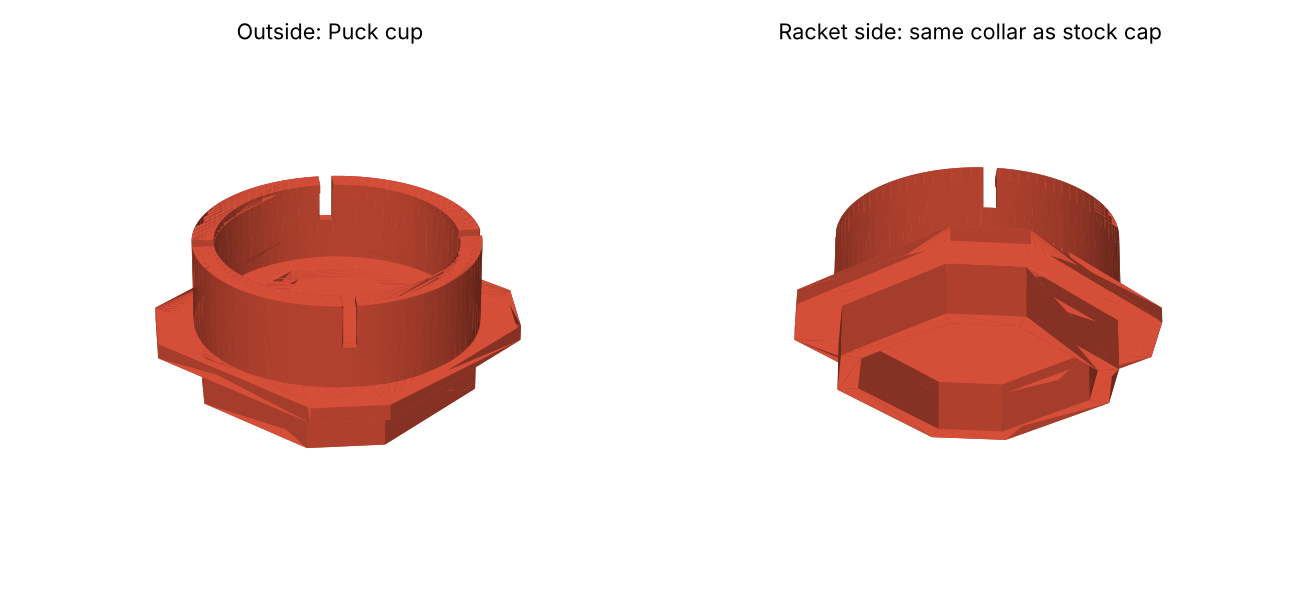
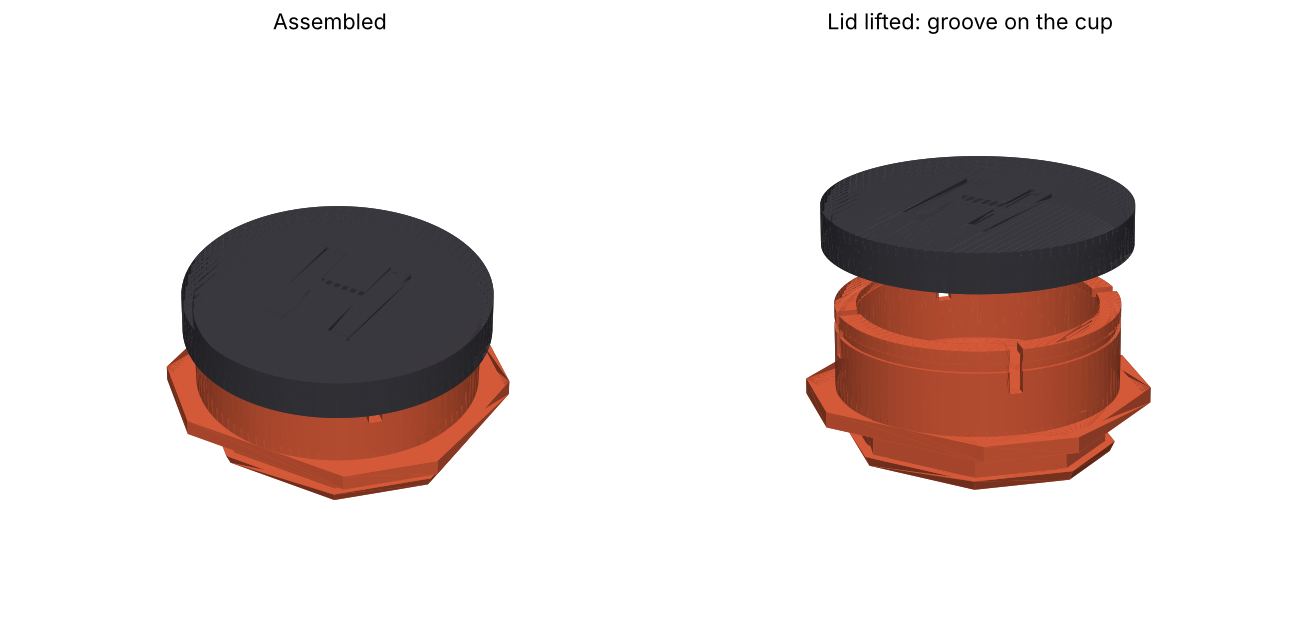
Butt cap: snap-on lid with engraved H; groove on the cup
Claude-Session: https://claude.ai/code/session_01U1vYNWBqomUQwRWxjbKs2f

diff --git a/hardware/buttcap/buttcap.py b/hardware/buttcap/buttcap.py
@@ -69,6 +69,19 @@ class ButtCapParams:
     finger_slot_width: float = 1.5
     finger_slot_depth: float = 5.0
 
+    # Snap lid: a sleeve over the cup whose bead clicks into a groove on the cup.
+    groove_depth: float = 0.4
+    groove_height: float = 1.0
+    groove_from_top: float = 1.5  # top of the groove below the cup rim
+    lid_clearance: float = 0.15
+    lid_wall: float = 1.2
+    lid_top: float = 1.6
+    lid_sleeve: float = 3.0
+    bead: float = 0.35
+    letter: str = "H"
+    letter_height: float = 14.0
+    letter_depth: float = 0.6
+
     def cup_outer_diameter(self) -> float:
         return self.pcb_diameter + 2 * (self.radial_clearance + self.cup_wall)
 
@@ -124,6 +137,10 @@ def build_racket_side(p: ButtCapParams) -> Manifold:
     return flange + collar
 
 
+def cup_top(p: ButtCapParams) -> float:
+    return p.flange_thickness + p.pcb_stack_height - p.stack_interference + p.lip_height
+
+
 def build(p: ButtCapParams) -> Manifold:
     cap = build_racket_side(p)
     inner_r = p.pcb_diameter / 2 + p.radial_clearance
@@ -143,7 +160,53 @@ def build(p: ButtCapParams) -> Manifold:
             .rotate([0, 0, angle])
         )
         cup = cup - slot
+    # Groove for the lid's bead.
+    groove_top = cup_top(p) - p.groove_from_top
+    groove = _cylinder(p.groove_height, outer_r + 1) - _cylinder(p.groove_height + 0.02, outer_r - p.groove_depth).translate(
+        [0, 0, -0.01]
+    )
+    cup = cup - groove.translate([0, 0, groove_top - p.groove_height])
     return cap + cup
+
+
+def _letter_h(height: float) -> CrossSection:
+    """A block capital H centred on the origin."""
+    width = height * 0.78
+    stroke = height * 0.19
+
+    def rect(x0: float, y0: float, x1: float, y1: float) -> CrossSection:
+        return CrossSection([[(x0, y0), (x1, y0), (x1, y1), (x0, y1)]])
+
+    w, h = width / 2, height / 2
+    return (
+        rect(-w, -h, -w + stroke, h)
+        + rect(w - stroke, -h, w, h)
+        + rect(-w + stroke - 0.01, -stroke / 2, w - stroke + 0.01, stroke / 2)
+    )
+
+
+def build_lid(p: ButtCapParams) -> Manifold:
+    """Snap-on lid with an engraved letter, in assembly coordinates (seated on the cup)."""
+    if p.letter not in ("H", ""):
+        raise ValueError("Only the letter H is implemented")
+    cup_r = p.cup_outer_diameter() / 2
+    r_in = cup_r + p.lid_clearance
+    r_out = r_in + p.lid_wall
+    top = cup_top(p)
+    lid = _cylinder(p.lid_sleeve + p.lid_top, r_out).translate([0, 0, top - p.lid_sleeve])
+    lid = lid - _cylinder(p.lid_sleeve + 0.01, r_in).translate([0, 0, top - p.lid_sleeve - 0.01])
+    # Bead: ramps in from the open edge (easy to push on), square on the lid side (locks).
+    groove_bottom = top - p.groove_from_top - p.groove_height
+    bead_h = p.groove_height * 0.8
+    ring = _cylinder(bead_h, r_in + 0.01) - Manifold.cylinder(
+        bead_h + 0.02, r_in, r_in - p.bead - p.lid_clearance, SEGMENTS
+    ).translate([0, 0, -0.01])
+    lid = lid + ring.translate([0, 0, groove_bottom + 0.05])
+    if p.letter:
+        mark = Manifold.extrude(_letter_h(p.letter_height), p.letter_depth + 0.01)
+        lid = lid - mark.translate([0, 0, top + p.lid_top - p.letter_depth])
+    return lid
+
 
 
 def to_trimesh(solid: Manifold) -> trimesh.Trimesh:
@@ -176,6 +239,14 @@ def main() -> None:
     stem = "buttcap-fit-test" if args.fit_test else "buttcap-puck"
     mesh.export(args.out / f"{stem}.3mf")
     mesh.export(args.out / f"{stem}.stl")
+    if not args.fit_test:
+        lid = to_trimesh(build_lid(params))
+        # Print top-down: the engraved letter is on the bed, the sleeve points up.
+        lid.apply_transform(trimesh.transformations.rotation_matrix(np.pi, [1, 0, 0]))
+        lid.apply_translation([0, 0, -lid.bounds[0][2]])
+        lid.export(args.out / "buttcap-lid.3mf")
+        lid.export(args.out / "buttcap-lid.stl")
+        print(f"Wrote buttcap-lid.3mf/.stl, {lid.extents[0]:.1f} mm wide, {lid.extents[2]:.1f} mm tall")
     e = mesh.extents
     print(f"Wrote {stem}.3mf/.stl to {args.out}")
     print(f"Size {e[0]:.1f} × {e[1]:.1f} × {e[2]:.1f} mm, {mesh.volume / 1000:.2f} cm³")

diff --git a/hardware/buttcap/test_buttcap.py b/hardware/buttcap/test_buttcap.py
@@ -27,3 +27,25 @@ def test_fit_test_part_matches_stock_cap_height() -> None:
 def test_rejects_a_cup_wider_than_the_flange() -> None:
     with pytest.raises(ValueError, match="stick out"):
         build(ButtCapParams(flange_width=31.0, flange_length=30.0, collar_width=28.0, collar_length=25.0))
+
+
+def test_lid_snaps_onto_the_cup_without_colliding() -> None:
+    from buttcap import build_lid, cup_top
+
+    p = ButtCapParams()
+    cap, lid = build(p), build_lid(p)
+    lid_mesh = to_trimesh(lid)
+    assert lid_mesh.is_watertight and lid_mesh.is_volume
+    # Seated, the lid only touches the cup; the bead sits in the groove, not in the wall.
+    assert (cap ^ lid).volume() < 0.05
+    # The lid sits on the rim and stays within the 40 mm grip.
+    assert lid_mesh.bounds[0][2] == pytest.approx(cup_top(p) - p.lid_sleeve, abs=0.01)
+    assert lid_mesh.extents[0] < 40
+
+
+def test_lid_carries_the_engraved_letter() -> None:
+    from buttcap import build_lid
+
+    plain = to_trimesh(build_lid(ButtCapParams(letter="")))
+    marked = to_trimesh(build_lid(ButtCapParams()))
+    assert marked.volume < plain.volume - 20  # mm³ removed by the H

diff --git a/hardware/buttcap/README.md b/hardware/buttcap/README.md
@@ -11,6 +11,7 @@ original; the outside carries a cup for the bare Puck.js PCB.
 | Footprint | 35 × 32 mm flange; the cup (31.8 mm) never extends past it or the grip |
 | Added length | ≈ 12 mm |
 | Mass | ≈ 5 g printed + 7 g PCB with coin cell |
+| Lid | Snap-on, 34.7 mm, engraved "H"; clicks into a groove on the cup |
 | Material | PETG, 100 % infill, printed as exported (no supports) |
 
 Why here and not on the strings: no change to string-bed feel, much smaller
@@ -31,9 +32,11 @@ python buttcap.py --collar-width 30.2 --collar-length 26.1
 pytest -q
 ```
 
-3. Snap the Puck PCB (coin cell towards the racket) into the cup past the
-   fingers, fit the cap, and fix it like the original (the stock staples, or
-   re-wrap the grip over the flange).
+3. Take the bare PCB out of the Puck case and snap it (coin cell towards the
+   racket) into the cup past the fingers. Push the lid on until it clicks; the
+   cup fingers flex inwards to let the bead pass. Fit the cap like the
+   original (the stock staples, or re-wrap the grip over the flange).
+   `out/buttcap-with-lid.3mf` has both parts on one plate.
 4. Re-run calibration in the app.
 
 Default dimensions were read from photos of a Wilson Blade cap against a ruler
